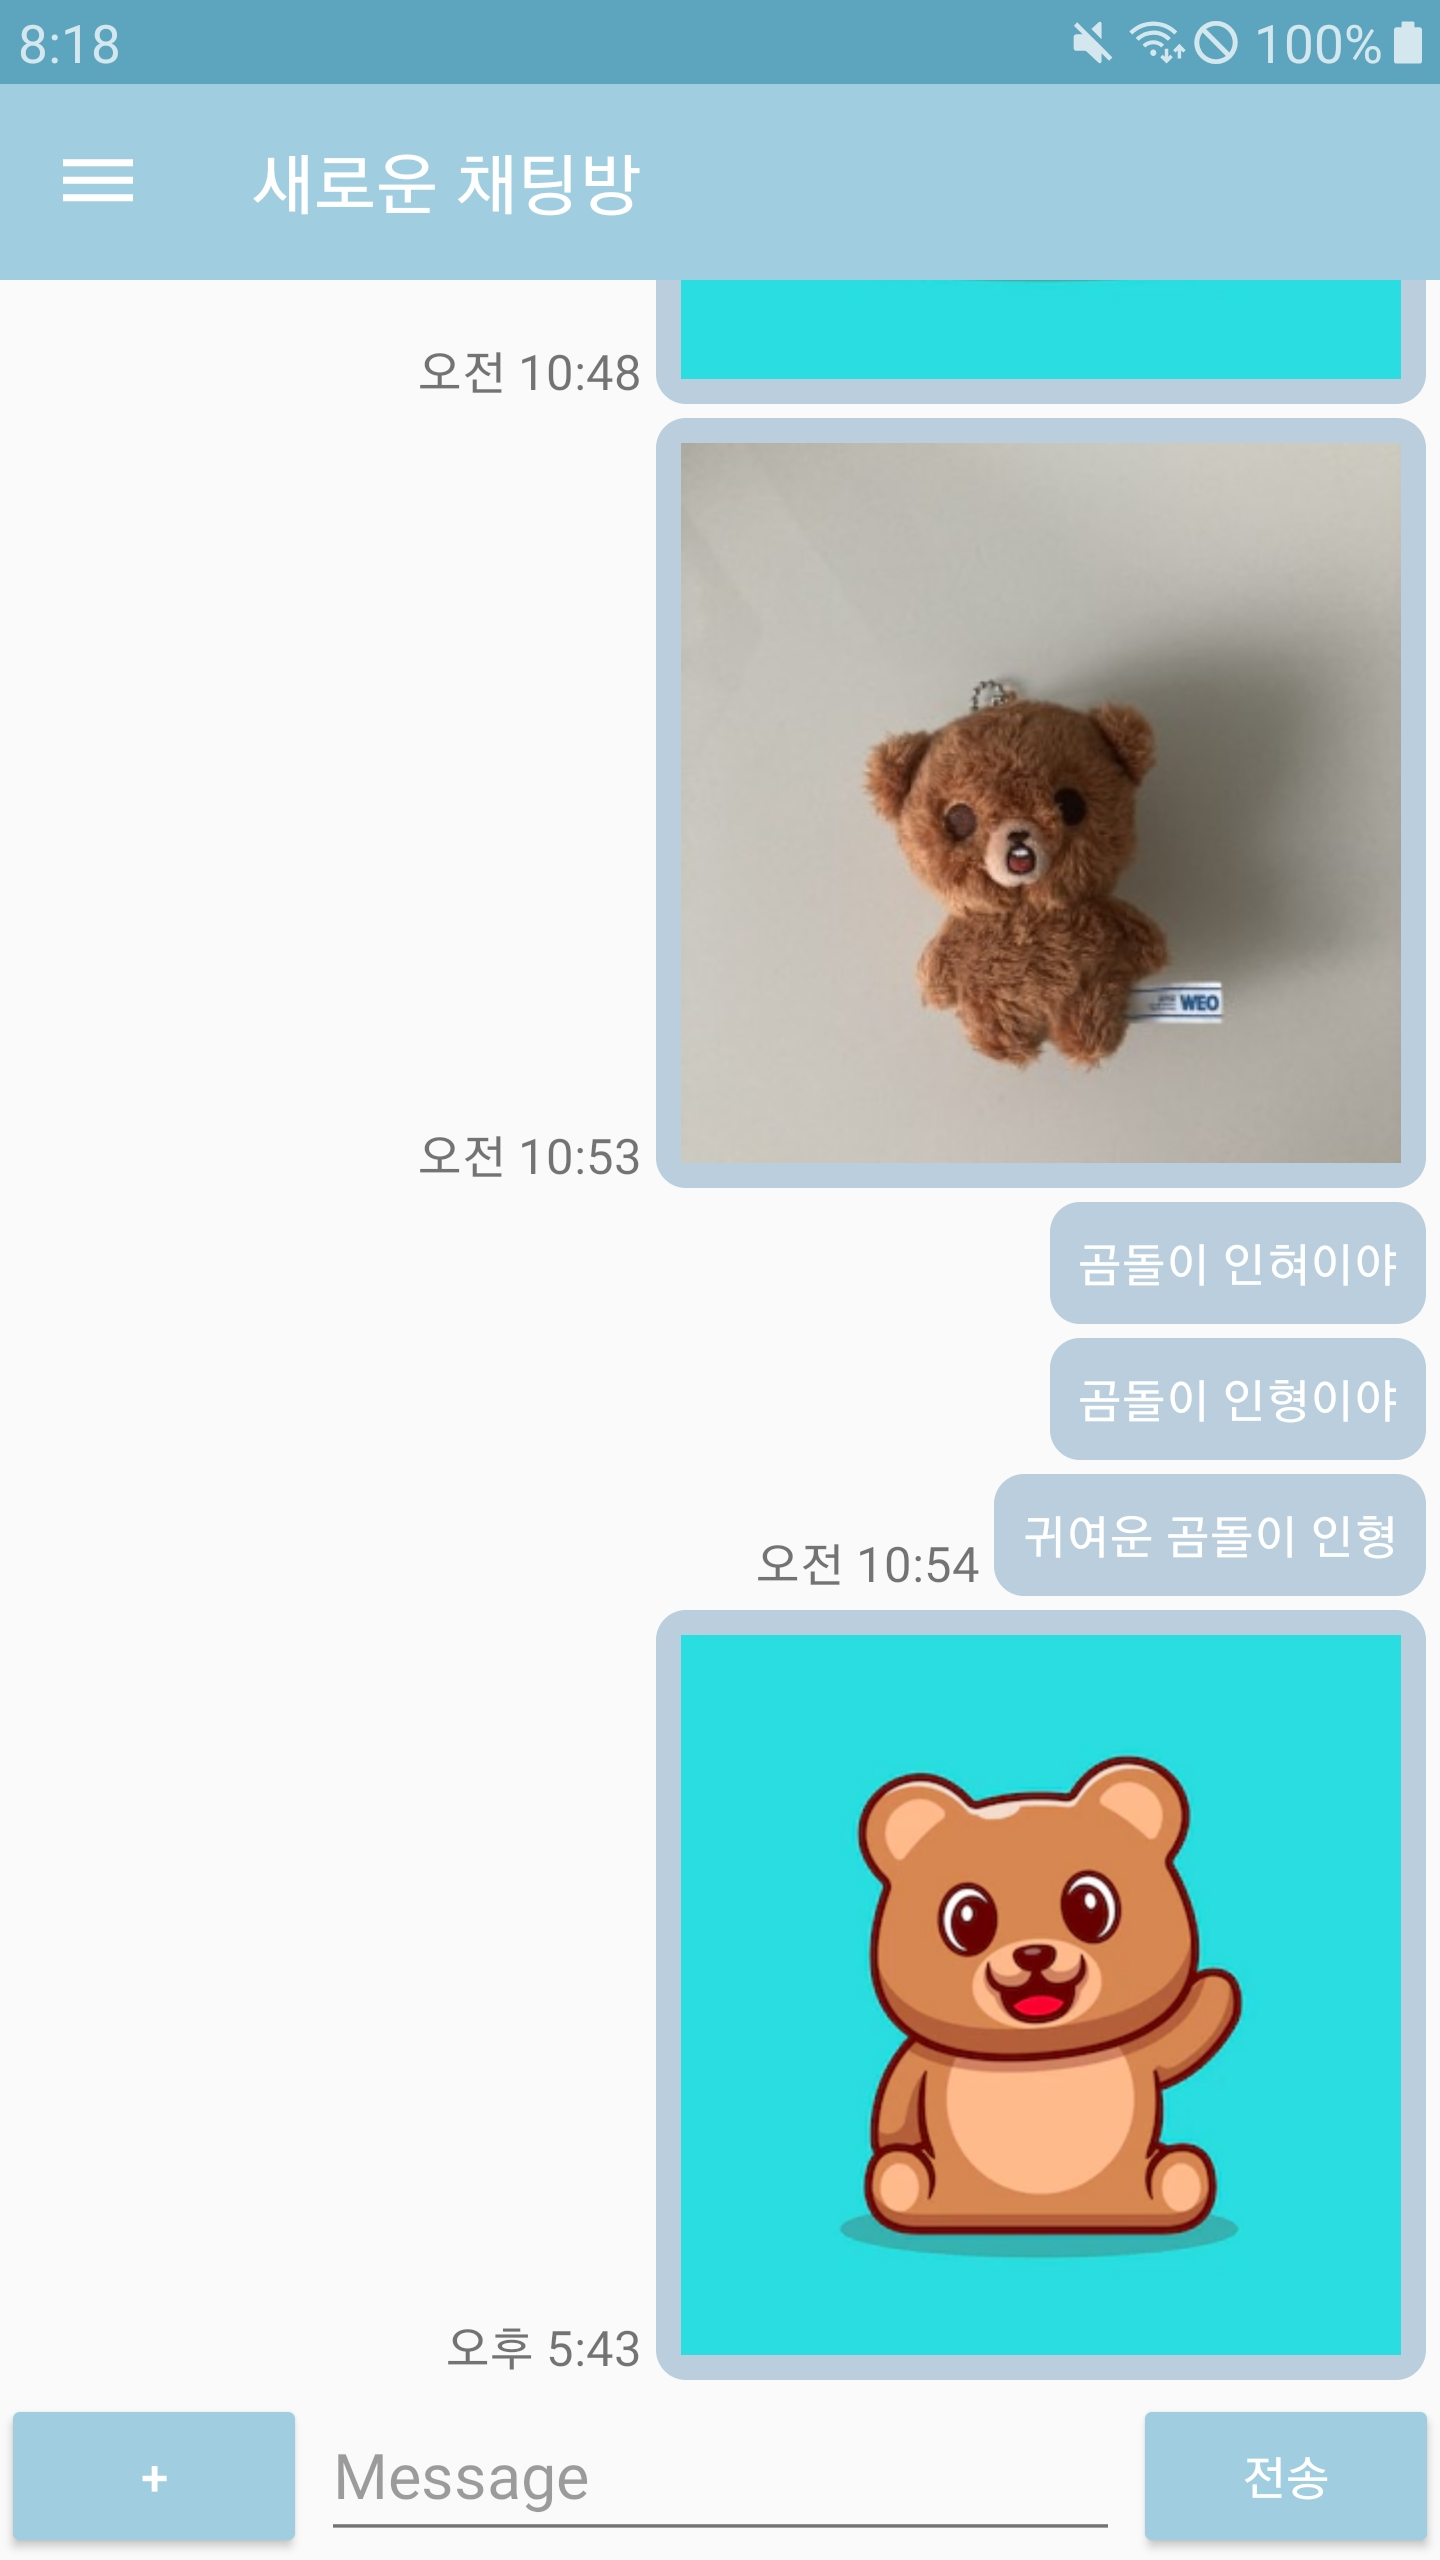
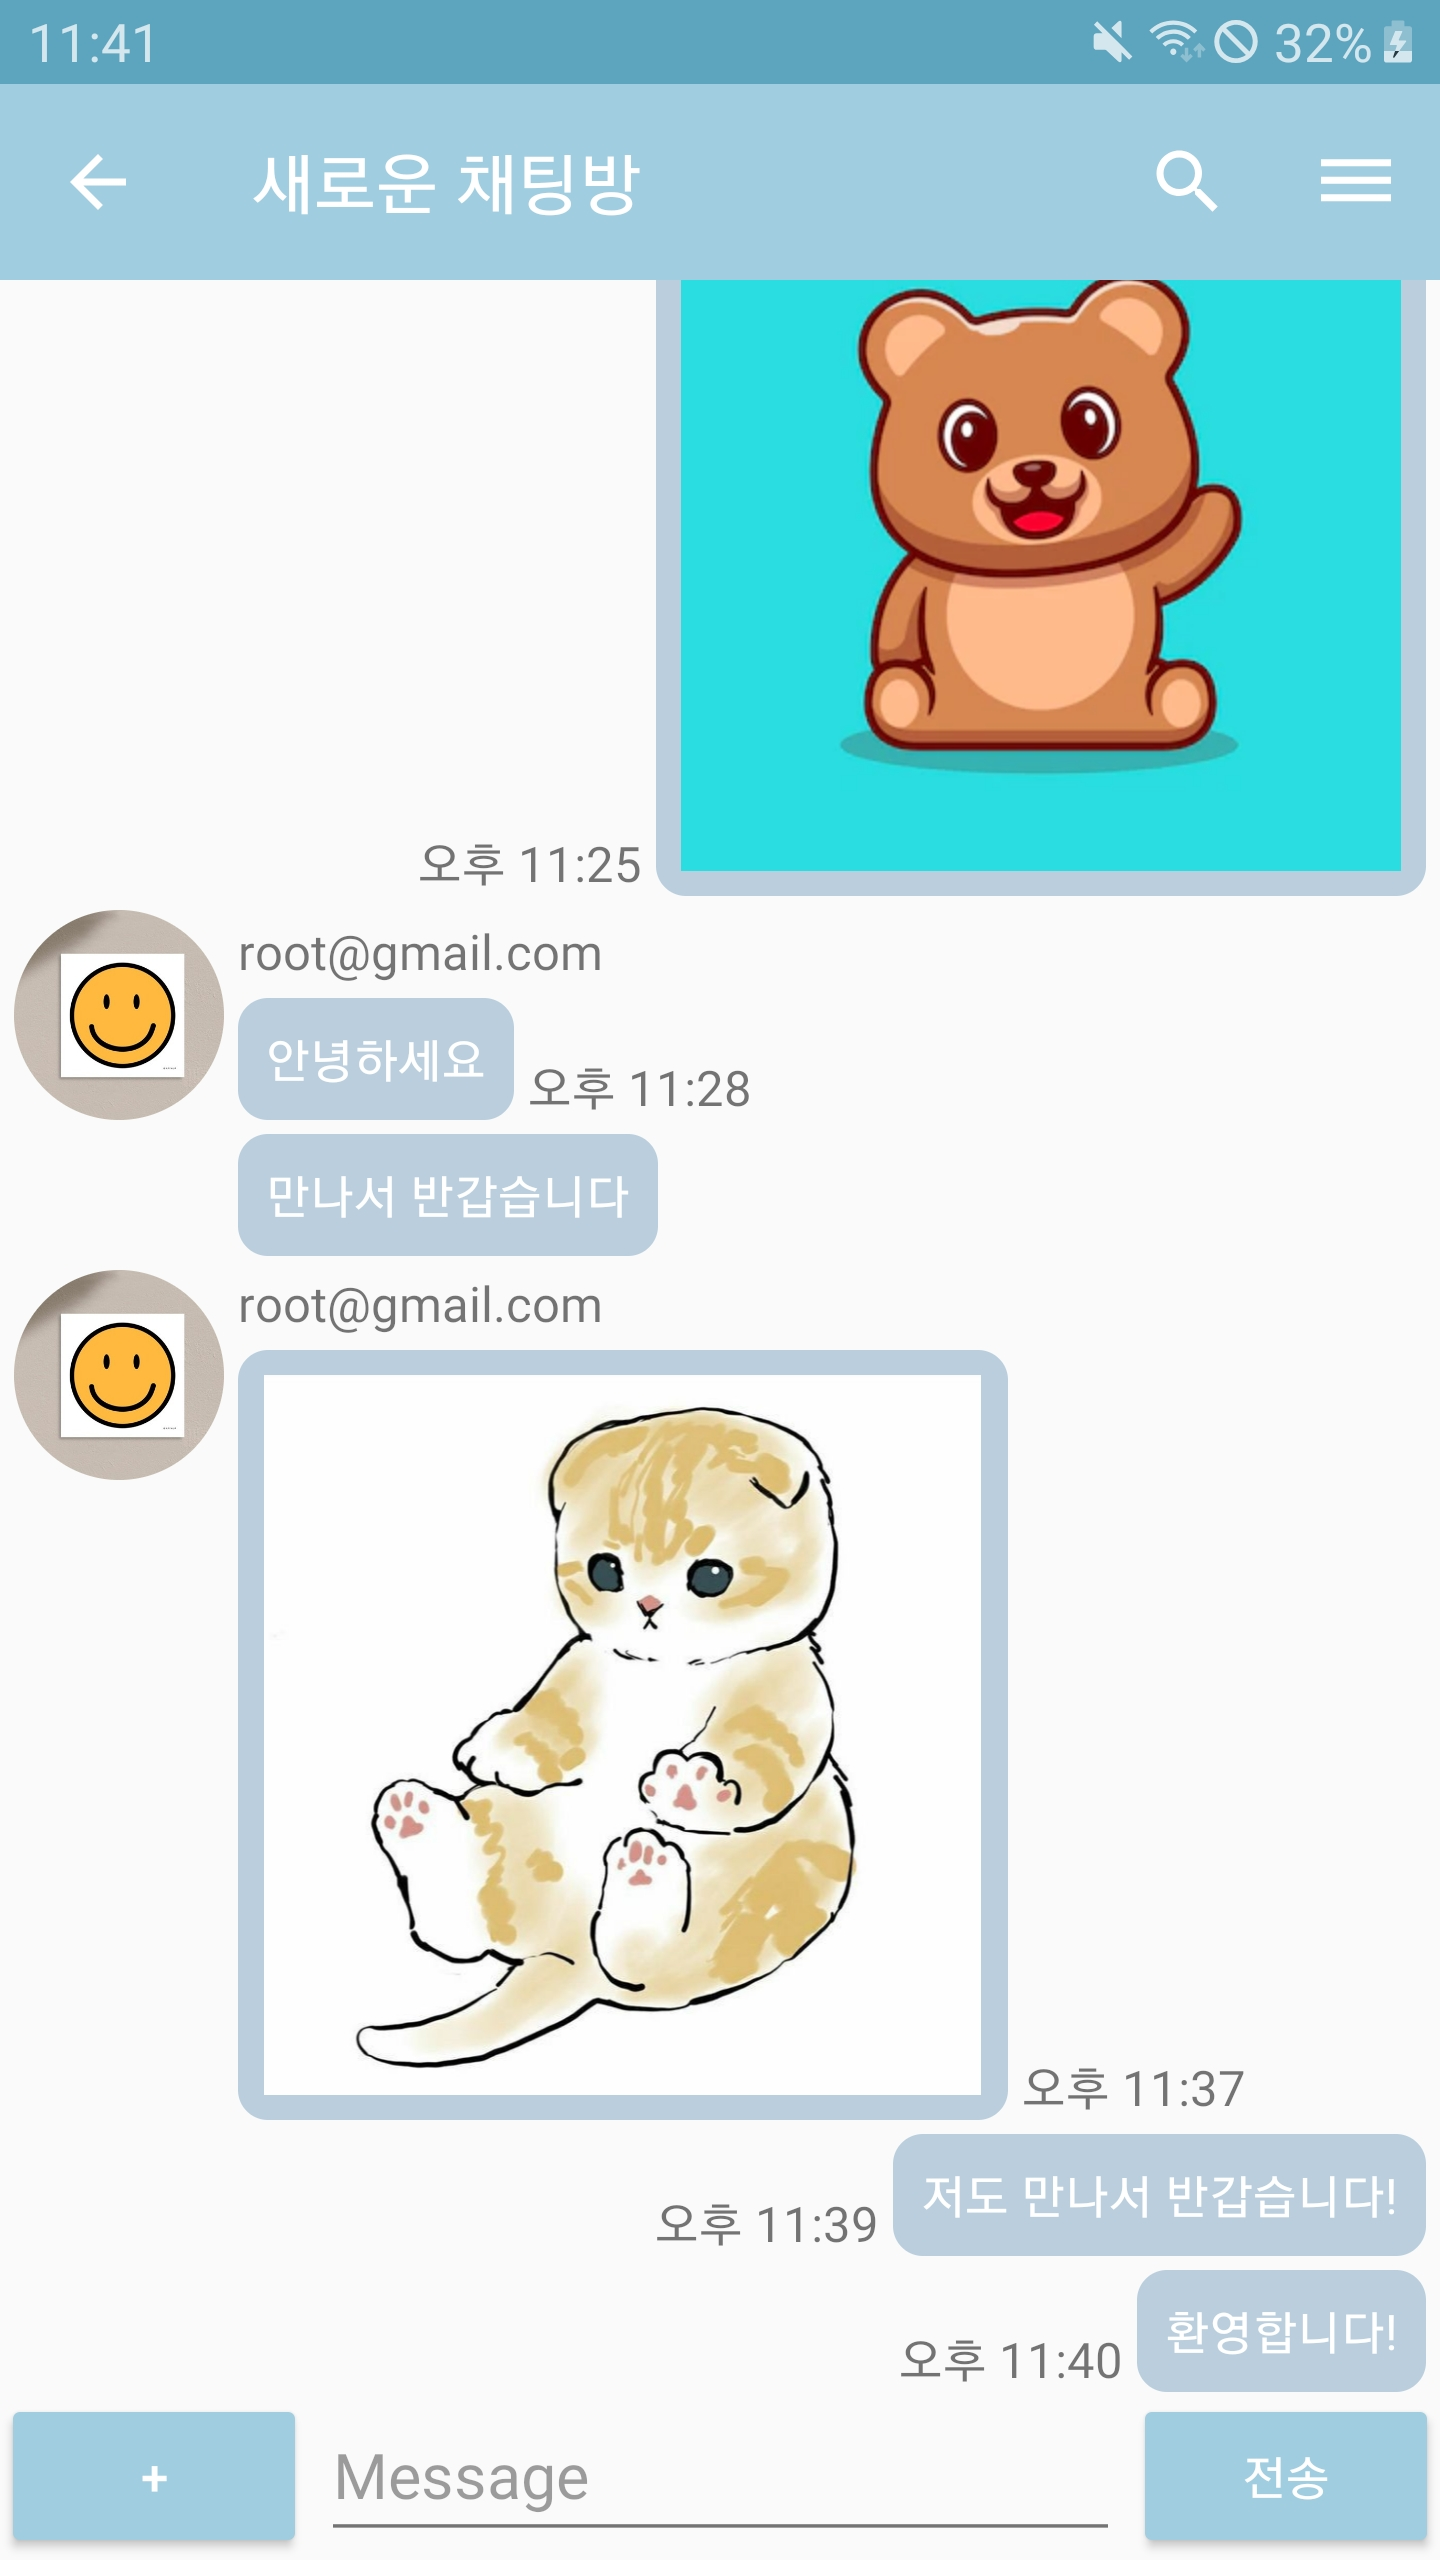
Docs: "앱 구동 이미지 추가 및 문서 수정"
화면 변경에 따른 앱 구동 이미지 변경 및 추가
- 채팅방 및 메뉴 사진 이미지 변경
- 프로필 사진, 수정 이미지 추가
- 채팅방 만들기, 메시지 알림 이미지 추가

Resolves: N/A
Ref: N/A
Related to: N/A

diff --git a/README.md b/README.md
@@ -35,13 +35,17 @@
 
 ## 모두의 채팅 어플리케이션
 
-| 로그인 화면 | 친구 목록 | 프로필 보기 | 친구 찾기 |
+| 로그인 화면 | 소셜 로그인 | 내 프로필 | 프로필 수정 |
 | :--------: | :--------: | :--------: | :--------: |
-|![start](./images/start.jpg)|![friends_list](./images/friends_list.jpg)|![profile_edit](./images/profile_edit.jpg)|![friends_search](./images/friends_search.jpg)|
+|![start](./images/start.jpg)|![google_login](./images/google_login.jpg)|![profile](./images/profile.jpg)|![profile_edit](./images/profile_edit.jpg)
 
-| 채팅방 목록 | 채팅 방 화면 | 채팅방 메뉴 | 설정 메뉴 |
+| 친구 목록 | 채팅방 목록 | 채팅 방 | 채팅방 메뉴 |
 | :--------: | :--------: | :--------: | :--------: |
-|![chat_room_list](./images/chat_room_list.jpg)|![chat_room](./images/chat_room.jpg)|![chat_side_menu](./images/chat_side_menu.jpg)|![setting_menu](./images/setting_menu.jpg)|
+|![friends_list](./images/friends_list.jpg)|![chat_room_list](./images/chat_room_list.jpg)|![chat_room](./images/chat_room.jpg)|![chat_side_menu](./images/chat_side_menu.jpg)
+
+| 설정 메뉴 | 채팅방 만들기 | 친구 찾기 | 메시지 알림 |
+| :--------: | :--------: | :--------: | :--------: |
+|![setting_menu](./images/setting_menu.jpg)|![create_chat_room](./images/create_chat_room.jpg)|![friends_search](./images/friends_search.jpg)|![chat_alarm](./images/chat_alarm.jpg)|
 
 ---
 
